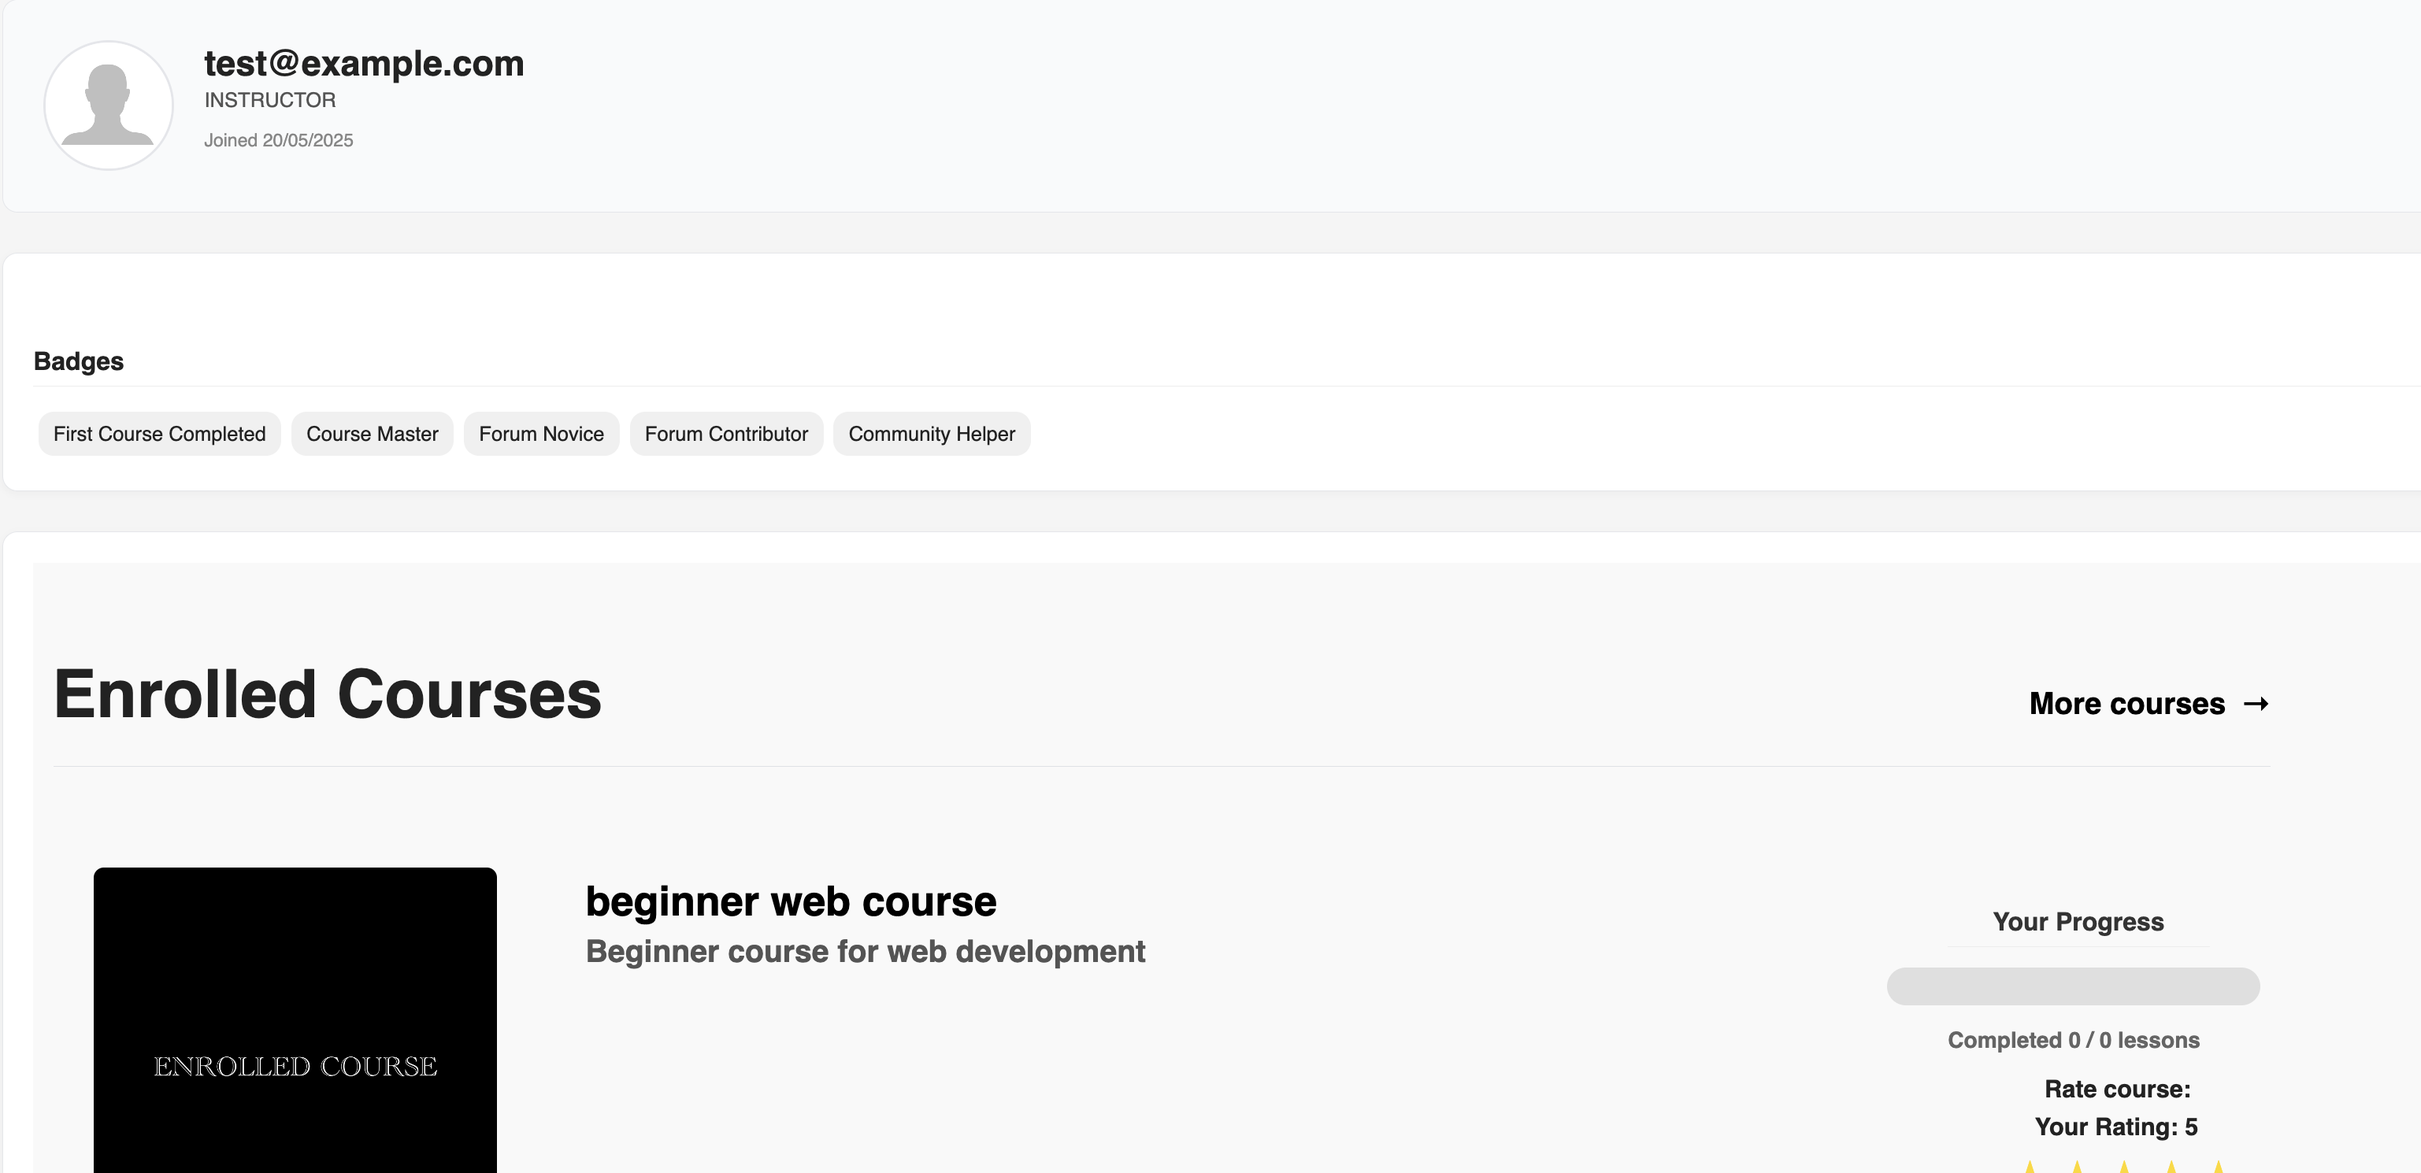
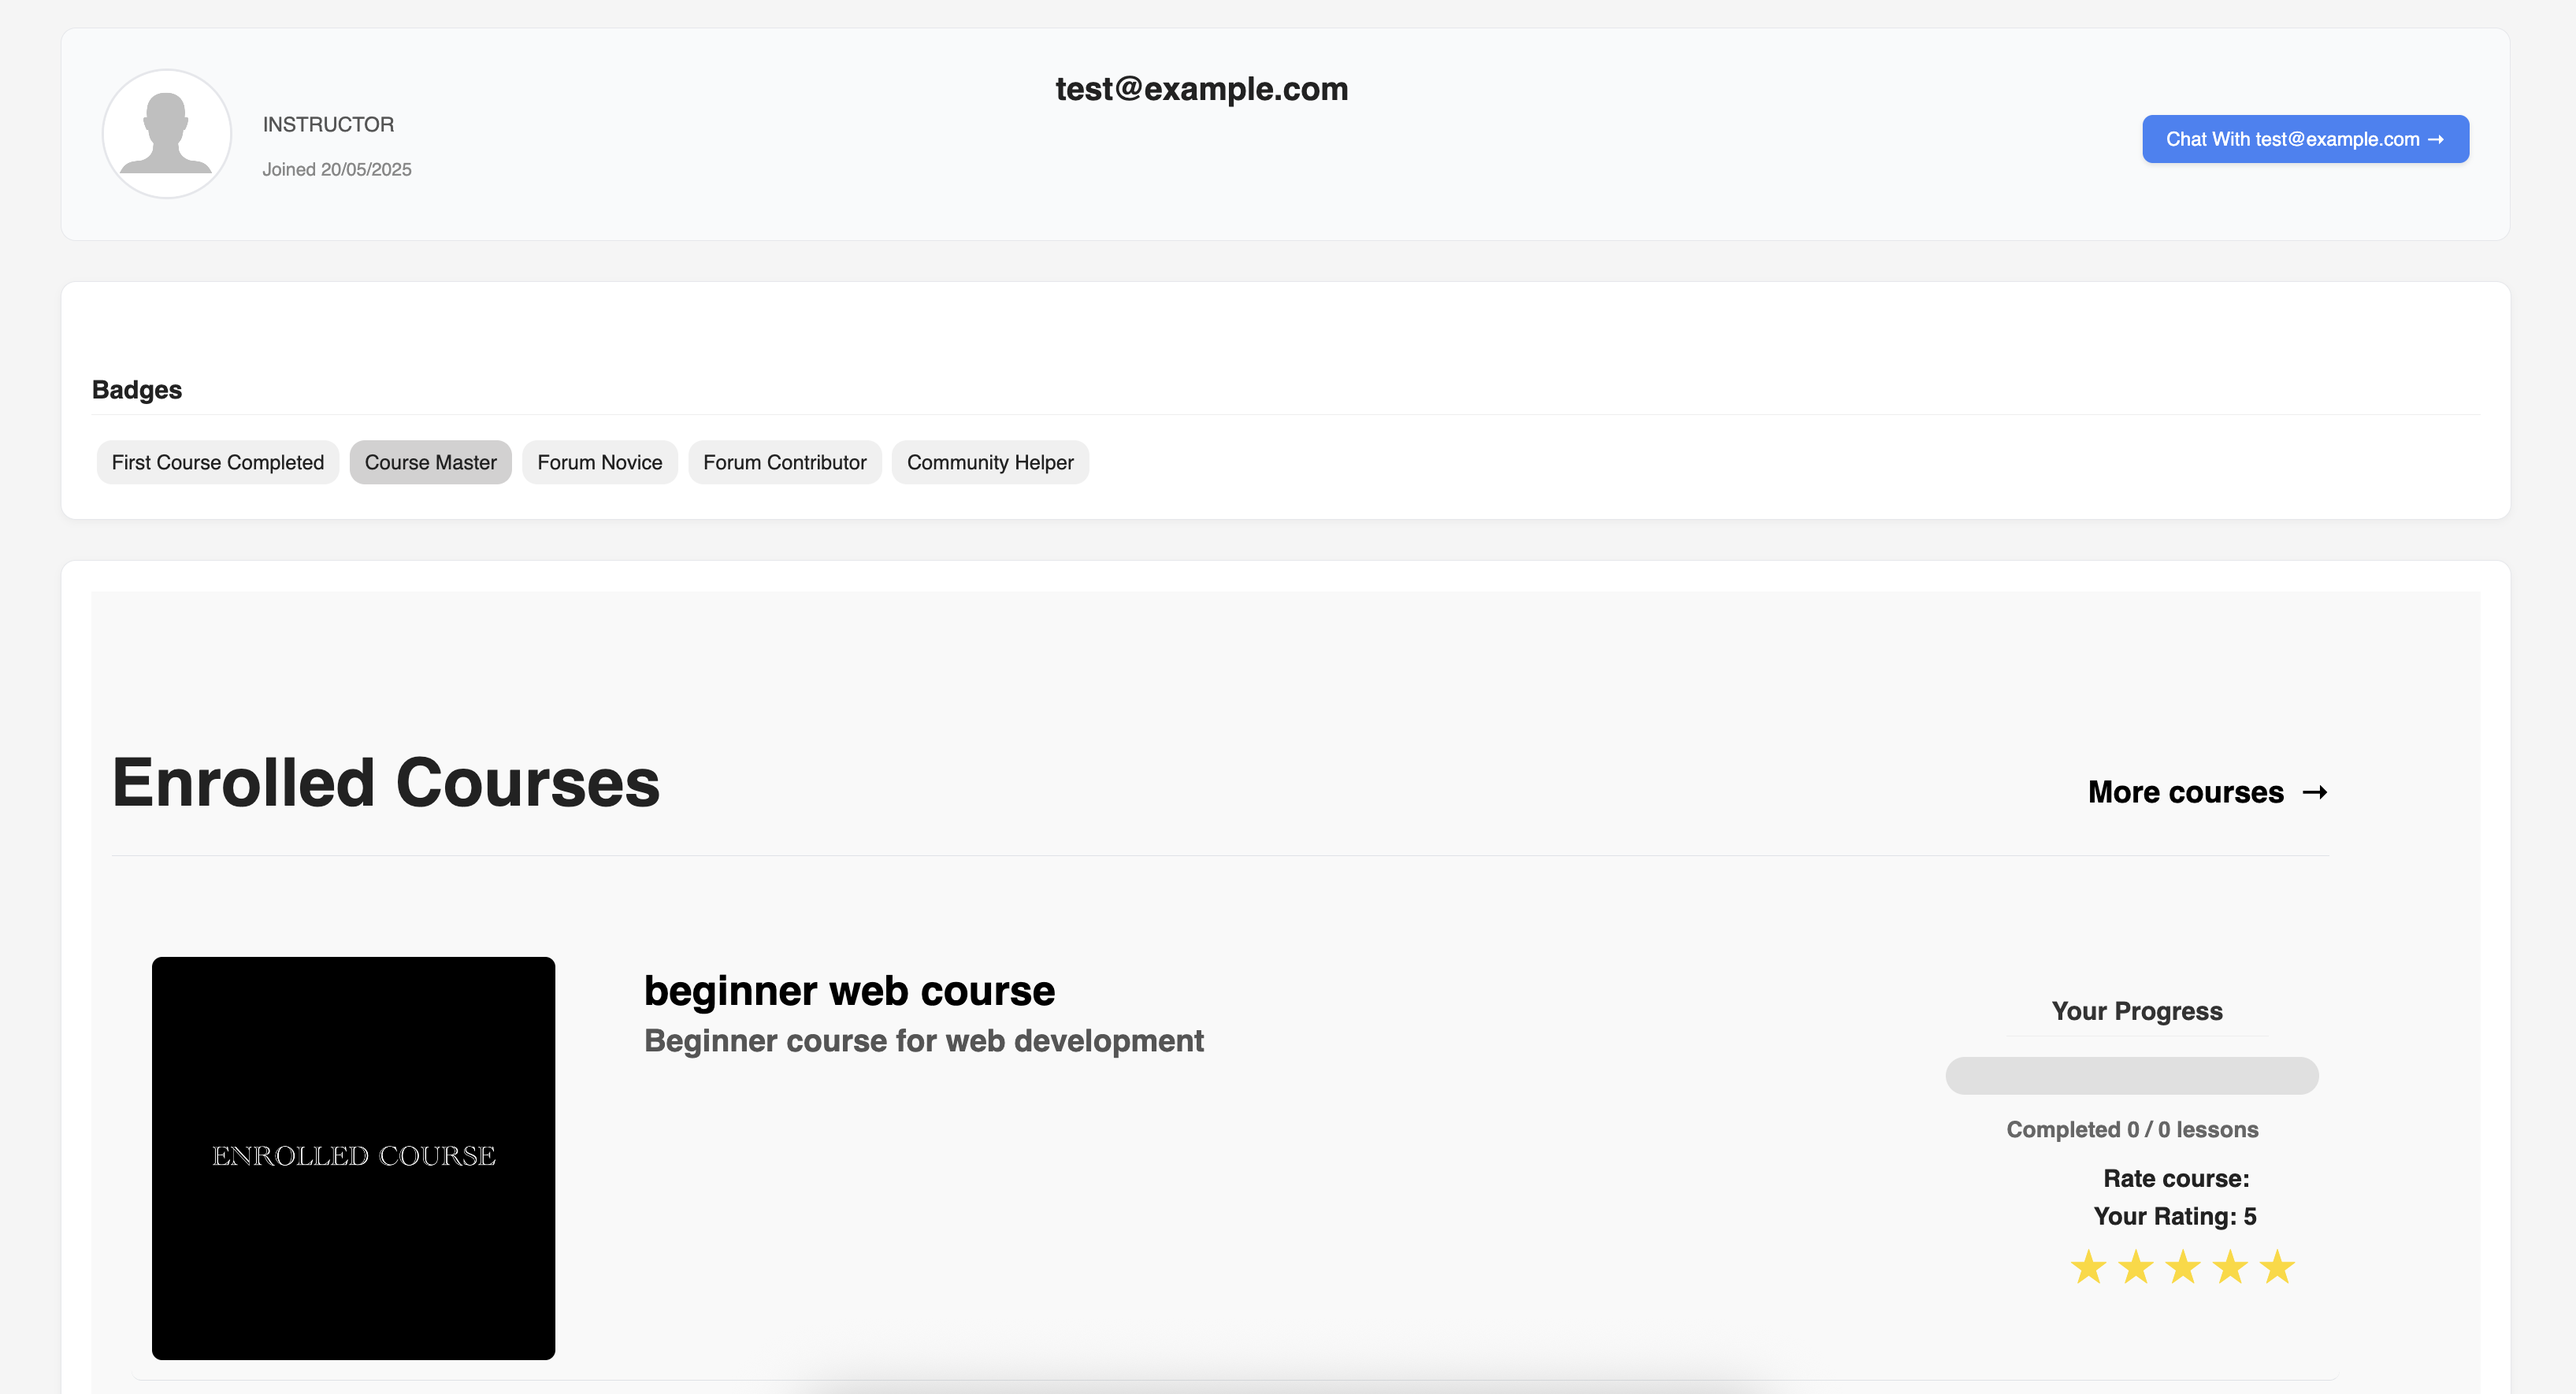
Update FEATURES_OVERVIEW.md, README.md and CHANGELOG.md for Release v2.2.0

diff --git a/CHANGELOG.md b/CHANGELOG.md
@@ -2,6 +2,67 @@
 
 All notable changes to this project will be documented in this file
 
+---
+
+## [2.2.0] - 2025-09-27
+
+This release introduces a fully-featured real-time chat system, allowing users to share experiences, ask each other for help, or casually chat with each other.
+
+Alongside this feature, the platform has been refined with new **UI/UX improvements, bug fixes, and performance optimizations**.
+
+---
+
+### Added
+- Live messaging via chat
+  - Messages sorted chronologically
+  - Option to delete messages
+  - Reply feature for chat messages
+  - Edit feature for chat messages
+  - Option to remove users from contact list
+- User Profile Page enhancements
+  - View personal profile and profiles of other users
+  - Display available certificates
+  - Badge awards for course completion and forum activity
+
+---
+
+### Improvements
+- Enhanced chat UI for better user experience
+- Contact sidebar displays last non-deleted message with each contact
+- Improved certificate generation and storage process
+- Restricted certificate access to authenticated users only
+- Further functionality optimizations across the platform
+- Minor UI tweaks for better **usability and consistency**
+- Error logging for Kafka and WebSocket connections
+- Updated `FEATURES_OVERVIEW.md` and `README.md`
+
+---
+
+### Fixed
+- Message sending and receiving bugs in chat
+- Import issues and TypeScript configuration in frontend
+- Docker/PostgreSQL issues, including `spring.jpa.hibernate.ddl-auto=update`
+- CORS preflight and frontend fetch errors
+
+---
+
+### Other
+- Added jUnit tests for backend and microservices
+- Included final project submodule changes for Advanced Web Course
+- Removed sensitive and unnecessary information
+
+---
+
+## Release Links
+- [Changelog](https://github.com/ismiljanic/SyntaxBase/blob/main/CHANGELOG.md)
+- [v2.2.0 Tag](https://github.com/ismiljanic/SyntaxBase/tree/v2.2.0)
+- [Compare with v2.1.0](https://github.com/ismiljanic/SyntaxBase/compare/v2.1.0...v2.2.0)
+
+
+[2.2.0]: https://github.com/ismiljanic/SyntaxBase/tree/v2.2.0
+
+---
+
 ## [2.1.0] - 2025-08-16
 
 ### Added

diff --git a/README.md b/README.md
@@ -60,6 +60,7 @@ Some core features in SyntaxBase include:
 - Users can receive email containing unread notifications
 - Authenticated users can view earned certificates
 - Authenticated users can view earned awards
+- Authenticated users can chat with each other in real time via integrated chat
 
 ### Admin
 
@@ -299,7 +300,7 @@ To start the backend application, follow these steps:
 ---
 ## Project structure
 
-### Project Structure (High Level) - v2.1.0
+### Project Structure (High Level) - v2.2.0
 
 ```text
 SyntaxBase/
@@ -307,12 +308,15 @@ SyntaxBase/
 ├── backend/
 ├── docs/
 ├── frontend/
+├── microservice-chat/
 ├── microservice-notifications/
+├── microservice-shared/
+├── CHANGELOG.MD
+├── LICENSE
+├── README.MD
 ```
 
 ### Frontend
-<details>
-<summary><strong>Frontend Structure</strong></summary></details>
 
 ```text
 src/
@@ -328,10 +332,10 @@ src/
 │   └── webCourses/       
 ├── services/   
 └── styles/
+└── utils/
 ```
 
 ### Backend
- <details> <summary><strong>Backend Structure</strong></summary></details>
 
 ```text
 com/programming.tutorial/
@@ -341,11 +345,24 @@ com/programming.tutorial/
 ├── domain/
 ├── dto/
 ├── services/
-└── TutorialApplication.java
+└── BackendApplication.java
 ```
 
+### Microservice-chat
+
+```text
+microservice_chat/
+├── config/
+├── controller/
+├── dao/
+├── domain/
+├── dto/
+├── services/
+└── MicroserviceChatApplication.java
+```
+---
+
 ### Microservice-notifications
- <details> <summary><strong>Backend Structure</strong></summary></details>
 
 ```text
 com/SyntaxBase/
@@ -358,6 +375,14 @@ com/SyntaxBase/
 ├── services/
 ├── utils/
 └── MicroserviceNotificationsApplication.java
+```
+---
+
+### Microservice-shared
+
+```text
+shared/
+├── dto/
 ```
 ---
 

diff --git a/docs/FEATURES_OVERVIEW.md b/docs/FEATURES_OVERVIEW.md
@@ -57,6 +57,7 @@ The following images provide a visual overview of some features and interface el
 
 ### User Profile Page
 <img src="images/userProfile.png" style="max-width: 100%; height: auto;" alt="userProfilePage">
+<img src="images/userProfile2.png" style="max-width: 100%; height: auto;" alt="userProfilePage2">
 
 ### User notifications
 <img src="images/notifications.png" style="max-width: 100%; height: auto;" alt="changepersonalinfo">
@@ -100,6 +101,24 @@ The following images provide a visual overview of some features and interface el
 
 ### User profile preview
 <img src="images/user-card.png" style="max-width: 100%; height: auto;" alt="userCard">
+
+### Chat among users
+<img src="images/chat.png" style="max-width: 100%; height: auto;" alt="chat">
+
+### Reply to users message
+<img src="images/otherReply.png" style="max-width: 100%; height: auto;" alt="replyToMessage">
+
+### Replied message appearance
+<img src="images/repliedMessage.png" style="max-width: 100%; height: auto;" alt="repliedMessage">
+
+### Edit message option
+<img src="images/editMessage.png" style="max-width: 100%; height: auto;" alt="editMessage">
+
+### Edited and deleted message appearance
+<img src="images/editedAndDeletedMessage.png" style="max-width: 100%; height: auto;" alt="editedAndDeletedMessage">
+
+### Remove user from contact
+<img src="images/removeUser.png" style="max-width: 100%; height: auto;" alt="removeUser">
 
 ### Invite link email
 <img src="images/courseInviteLinkEmail.png" style="max-width: 100%; height: auto;" alt="inviteLinkEmail">
